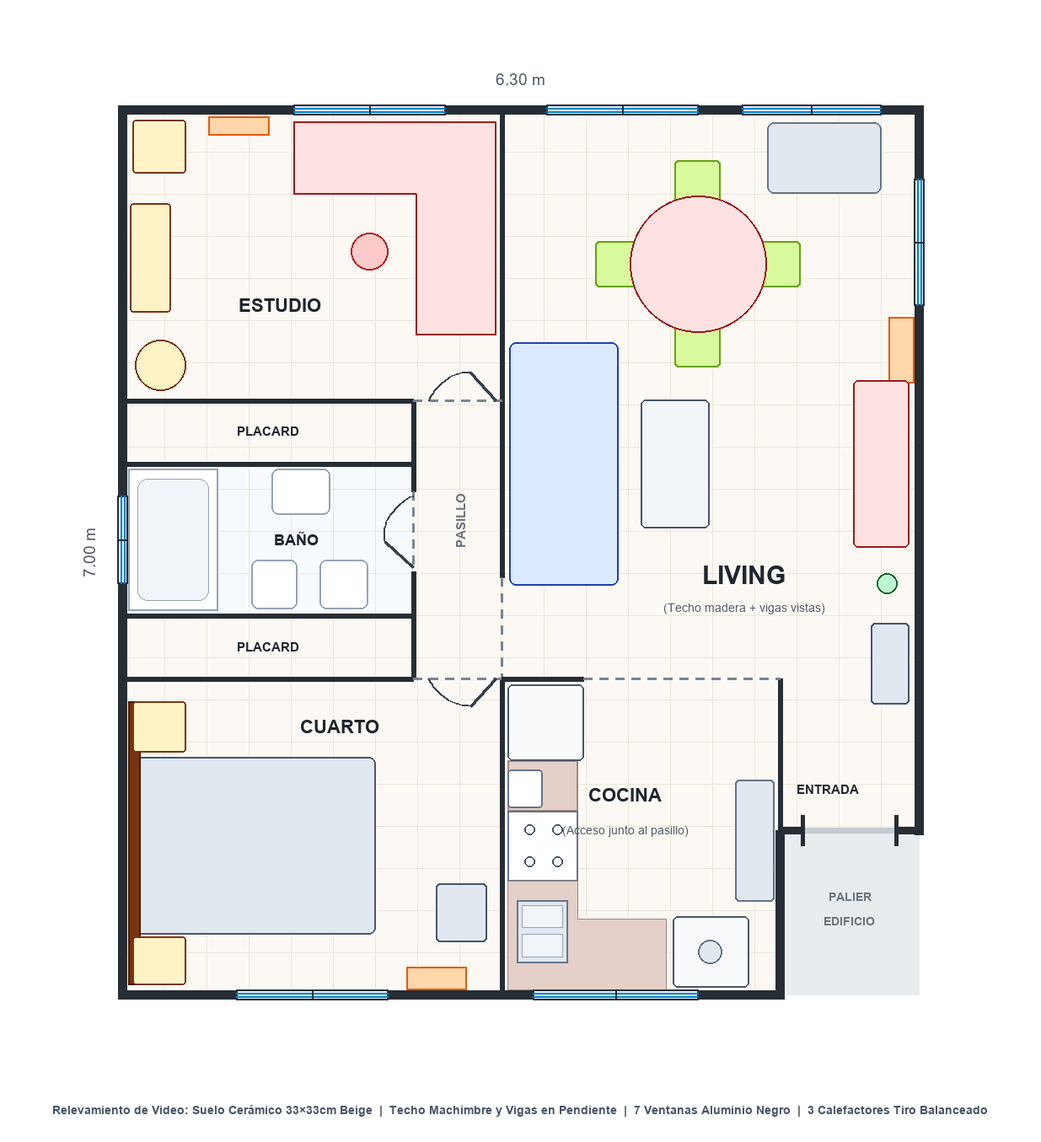
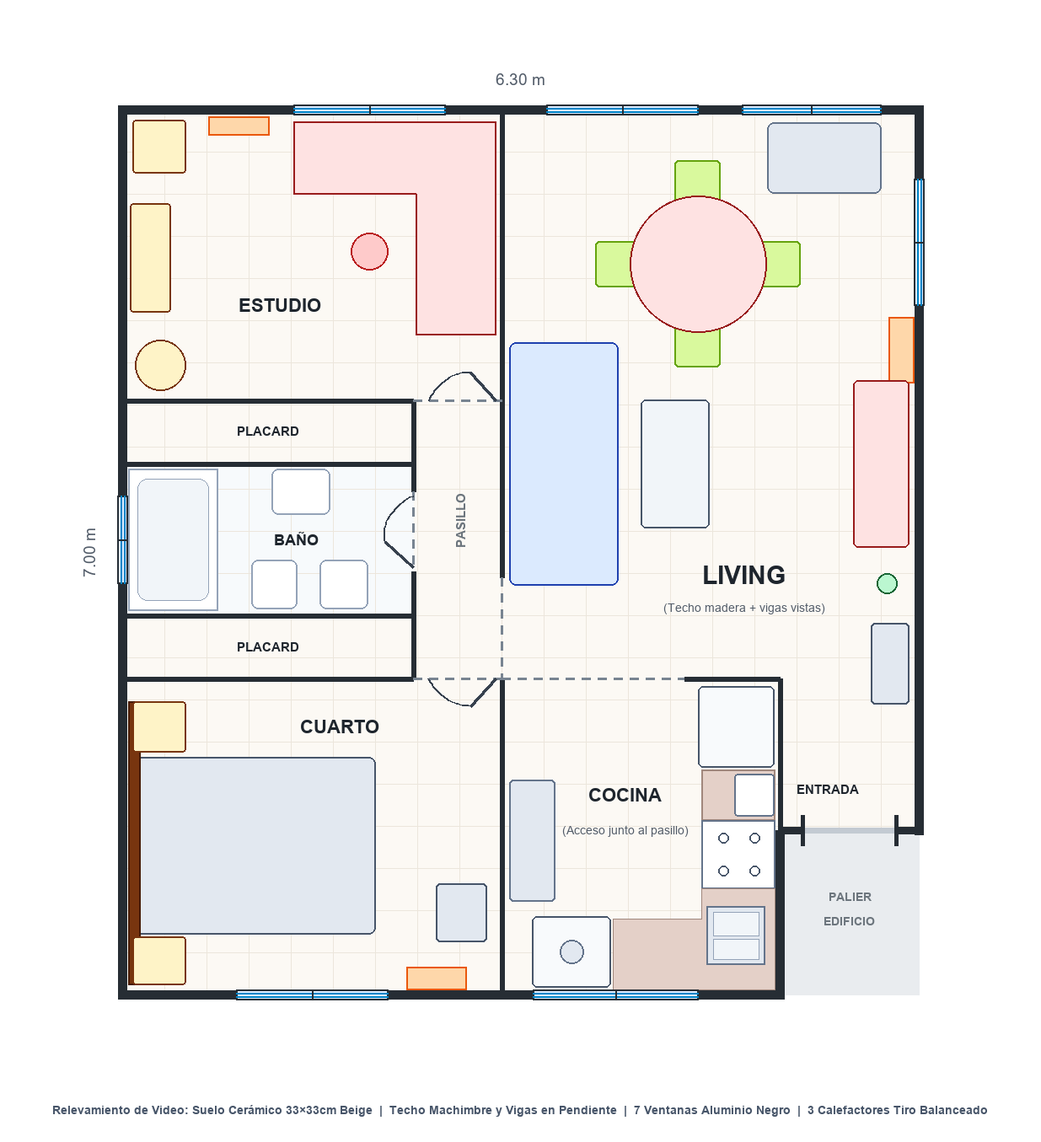
Corregir orientacion de muebles de cocina: heladera, cocina y mesada sobre muro Este; lavarropas al Oeste bajo ventana y portero en muro divisorio Oeste

Changed region(s): [[0.4615, 0.6509, 0.7692, 0.8679], [0.6462, 0.5889, 0.7385, 0.6199], [0.4923, 0.5889, 0.5538, 0.6199]]

diff --git a/index.html b/index.html
@@ -1331,29 +1331,29 @@
         addBoxFixture(2.48, 0.34, 6.86, 0.46, 0.62, 0.14, 0x9ca3af);
         addBoxFixture(2.48, 0.66, 6.86, 0.48, 0.03, 0.16, 0xf97316);
 
-        // 2) COCINA (según fotos reales): Sobre muro Oeste (X=3.00) van Heladera -> 1° tramo mesada + Calefón mural Orbis/Bosch -> Cocina 4H -> 2° tramo mesada con Bacha + esquina en "L" bajo ventana Sur (Y=7.00). Muro Este (X=5.20) queda libre con portero y cestos.
-        // - 1° tramo de bajo mesada y mesada de granito entre Heladera y Cocina (Z=5.15..5.55, X=3.30)
-        addBoxFixture(3.30, 0.42, 5.35, 0.56, 0.84, 0.40, 0xb48a64);
-        addBoxFixture(3.30, 0.86, 5.35, 0.60, 0.04, 0.40, 0xc8b2a6);
-        // - Calefón a gas mural blanco (Orbis/Bosch) colgado en pared Oeste sobre el 1° tramo de mesada (X=3.16, Y=1.44, Z=5.35) + caño amarillo
-        setMountWall(3.00, 5.35, false);
-        addBoxFixture(3.16, 1.44, 5.35, 0.22, 0.56, 0.36, 0xf8fafc, fixturesGroup, 0.25);
-        addBoxFixture(3.28, 1.28, 5.35, 0.02, 0.08, 0.12, 0x334155); // Visor/botonera calefón
-        addBoxFixture(3.12, 1.08, 5.22, 0.03, 0.22, 0.03, 0xeab308); // Caño de gas amarillo
+        // 2) COCINA (según fotos reales): Sobre muro Este (X=5.20) van Heladera -> 1° tramo mesada + Calefón mural Orbis/Bosch -> Cocina 4H -> 2° tramo mesada con Bacha + esquina en "L" bajo ventana Sur (Y=7.00). Muro Oeste (X=3.00) queda libre con portero y cestos.
+        // - 1° tramo de bajo mesada y mesada de granito entre Heladera y Cocina (Z=5.22..5.62, X=4.87)
+        addBoxFixture(4.87, 0.42, 5.42, 0.56, 0.84, 0.40, 0xb48a64);
+        addBoxFixture(4.86, 0.86, 5.42, 0.60, 0.04, 0.40, 0xc8b2a6);
+        // - Calefón a gas mural blanco (Orbis/Bosch) colgado en pared Este sobre el 1° tramo de mesada (X=5.04, Y=1.44, Z=5.42) + caño amarillo
+        setMountWall(5.20, 5.42, false);
+        addBoxFixture(5.04, 1.44, 5.42, 0.22, 0.56, 0.36, 0xf8fafc, fixturesGroup, 0.25);
+        addBoxFixture(4.92, 1.28, 5.42, 0.02, 0.08, 0.12, 0x334155); // Visor/botonera calefón
+        addBoxFixture(5.08, 1.08, 5.28, 0.03, 0.22, 0.03, 0xeab308); // Caño de gas amarillo
         setMountWall(null);
-        // - Cocina a gas blanca de 4 hornallas con horno visor negro sobre muro Oeste (X=3.30, Z=5.85, entre los dos tramos de mesada)
-        addBoxFixture(3.30, 0.43, 5.85, 0.58, 0.86, 0.54, 0xffffff, fixturesGroup, 0.25);
-        addBoxFixture(3.30, 0.87, 5.85, 0.52, 0.02, 0.48, 0x1e293b); // Rejilla 4 hornallas negra
-        addBoxFixture(3.60, 0.38, 5.85, 0.02, 0.44, 0.42, 0x0f172a); // Visor negro puerta del horno
-        // - 2° tramo de bajo mesada y mesada en "L" de granito gris/rosado (Muro Oeste Z=6.12..6.96 + retorno Sur X=3.60..4.30)
-        addBoxFixture(3.30, 0.42, 6.54, 0.56, 0.84, 0.84, 0xb48a64);
-        addBoxFixture(3.95, 0.42, 6.68, 0.70, 0.84, 0.56, 0xb48a64);
-        addBoxFixture(3.30, 0.86, 6.54, 0.60, 0.04, 0.84, 0xc8b2a6);
-        addBoxFixture(3.95, 0.86, 6.68, 0.68, 0.04, 0.58, 0xc8b2a6);
-        // - Bacha doble esquinera de acero inoxidable + grifería monocomando + filtro purificador negro PSA (X=3.35, Z=6.50)
-        addBoxFixture(3.35, 0.875, 6.46, 0.40, 0.02, 0.44, 0x94a3b8, fixturesGroup, 0.25);
-        addBoxFixture(3.70, 0.875, 6.66, 0.40, 0.02, 0.38, 0x94a3b8, fixturesGroup, 0.25);
-        addBoxFixture(3.30, 1.00, 6.66, 0.09, 0.24, 0.09, 0x0f172a, fixturesGroup, 0.2); // Filtro purificador de agua negro PSA
+        // - Cocina a gas blanca de 4 hornallas con horno visor negro sobre muro Este (X=4.86, Z=5.89, entre los dos tramos de mesada)
+        addBoxFixture(4.86, 0.43, 5.89, 0.58, 0.86, 0.54, 0xffffff, fixturesGroup, 0.25);
+        addBoxFixture(4.86, 0.87, 5.89, 0.52, 0.02, 0.48, 0x1e293b); // Rejilla 4 hornallas negra
+        addBoxFixture(4.56, 0.38, 5.89, 0.02, 0.44, 0.42, 0x0f172a); // Visor negro puerta del horno
+        // - 2° tramo de bajo mesada y mesada en "L" de granito gris/rosado (Muro Este Z=6.16..6.96 + retorno Sur X=3.88..4.58)
+        addBoxFixture(4.87, 0.42, 6.56, 0.56, 0.84, 0.80, 0xb48a64);
+        addBoxFixture(4.23, 0.42, 6.68, 0.70, 0.84, 0.56, 0xb48a64);
+        addBoxFixture(4.86, 0.86, 6.56, 0.60, 0.04, 0.80, 0xc8b2a6);
+        addBoxFixture(4.23, 0.86, 6.68, 0.68, 0.04, 0.58, 0xc8b2a6);
+        // - Bacha doble esquinera de acero inoxidable + grifería monocomando + filtro purificador negro PSA (X=4.68, Z=6.55)
+        addBoxFixture(4.82, 0.875, 6.46, 0.40, 0.02, 0.44, 0x94a3b8, fixturesGroup, 0.25);
+        addBoxFixture(4.48, 0.875, 6.66, 0.40, 0.02, 0.38, 0x94a3b8, fixturesGroup, 0.25);
+        addBoxFixture(4.88, 1.00, 6.66, 0.09, 0.24, 0.09, 0x0f172a, fixturesGroup, 0.2); // Filtro purificador de agua negro PSA
 
         // 3) BAÑO AMPLIO (según fotos #23 a #29): Bañera con mampara/cortina floral al Oeste + Lavatorio con botiquín espejo al Norte + Inodoro, Bidet y Alacena al Sur
         // Bañera blanca (X=0.05..0.75, Z=2.84..3.96) + esquinero ducha + cortina de baño blanca
@@ -1473,9 +1473,9 @@
         // - PUERTA CUARTO: De X = 2.30 a X = 3.00 (bisagra al Este en X=3.00, abre HACIA ADENTRO del Cuarto sobre muro Este, fotos #17 y #22)
         addDashedLine(2.30, 4.50, 3.00, 4.50);
         addDoorSymbol2D(2.95, 4.50, 2.75, 4.72, 2.55, 4.72, 2.42, 4.50);
-        // - VANO ABIERTO COCINA (SIN PUERTA): Mocheta frontal de Cocina de X = 3.00 a X = 3.65 (cubre el lateral de la heladera); paso libre hacia la cocina de X = 3.65 a X = 5.20
-        addWallSegment(3.00, 4.50, 3.65, 4.50, INT_T, interiorWallsGroup, false);
-        addDashedLine(3.65, 4.50, 5.20, 4.50);
+        // - VANO ABIERTO COCINA (SIN PUERTA): Paso libre de X = 3.00 a X = 4.45 alineado con el pasillo de la cocina; mocheta de X = 4.45 a X = 5.20 delante del lateral de la heladera
+        addDashedLine(3.00, 4.50, 4.45, 4.50);
+        addWallSegment(4.45, 4.50, 5.20, 4.50, INT_T, interiorWallsGroup, false);
 
         // ============================================================================
         // 4B. PUERTAS 3D REALES EXTRAÍDAS DEL VIDEO (MARCOS DE CHAPA, HOJAS MADERA,
@@ -1716,14 +1716,14 @@
             if (extras3DBuilt) return;
             extras3DBuilt = true;
             buildWoodenRoof();
-            // Dintel sobre el Vano Abierto de Cocina (X = 3.65 a 5.20)
-            const wCocinaVano = 1.55;
+            // Dintel sobre el Vano Abierto de Cocina (X = 3.00 a 4.45)
+            const wCocinaVano = 1.45;
             const lintelH = WALL_H - DOOR_H;
             const cocinaLintel = new THREE.Mesh(UNIT_BOX_GEO, intWallMat);
             cocinaLintel.scale.set(wCocinaVano, lintelH, INT_T);
-            cocinaLintel.position.set(4.425, DOOR_H + lintelH / 2, 4.50);
+            cocinaLintel.position.set(3.725, DOOR_H + lintelH / 2, 4.50);
             doors3DGroup.add(cocinaLintel);
-            attachWallMount(cocinaLintel, 4.425, 4.50, true);
+            attachWallMount(cocinaLintel, 4.60, 4.50, true);
             // Instanciar puertas 3D relevadas de las fotos (#17, #23, #39, #40):
             // - Puerta Estudio: bisagra en X=3.00 (hingeAtStart=false), abre hacia adentro sobre muro Este (swingSign=-1)
             // - Puerta Baño: bisagra en Z=3.65 (hingeAtStart=false), abre hacia adentro al Sur (swingSign=1)
@@ -1925,61 +1925,61 @@
             addCurtainAssembly(6.30, 0.55, 6.30, 1.55, -0.12, 0, 0xd6ccc2);
 
             // ------------------------------------------------------------------------
-            // B) COCINA ([3.00, 4.50] a [5.20, 7.00]) - Relevamiento exacto de las fotos
+            // B) COCINA ([3.00, 4.50] a [5.20, 7.00]) - Relevamiento exacto de las fotos reales
             // ------------------------------------------------------------------------
-            // 1. Mueble envolvente de heladera en esquina Noroeste (X=3.35, Z=4.88, detrás de la mocheta de acceso):
-            // - Heladera blanca con freezer superior mirando al Este + imanes en la puerta
-            addDecorBox(3.35, 0.84, 4.88, 0.60, 1.68, 0.62, 0xf8fafc, 0.25, 0, 'Heladera con Freezer');
+            // 1. Mueble envolvente de heladera en esquina Noreste (X=4.85, Z=4.88, detrás de la mocheta de acceso):
+            // - Heladera blanca con freezer superior mirando al Oeste + imanes en la puerta
+            addDecorBox(4.85, 0.84, 4.88, 0.60, 1.68, 0.62, 0xf8fafc, 0.25, 0, 'Heladera con Freezer');
             // - Bodega portabotellas de 8 nichos (4x2) + Alacena superior de 2 puertas en melamina roble claro hasta arriba
-            setMountWall(3.00, 4.88, false);
-            addDecorBox(3.35, 1.78, 4.88, 0.60, 0.16, 0.62, 0xd6ccc2, 0.5, 0, 'Bodega Portabotellas');  // Bodega portabotellas
-            addDecorBox(3.35, 2.12, 4.88, 0.60, 0.52, 0.62, 0xd6ccc2, 0.45, 0, 'Alacena sobre Heladera'); // Alacena alta sobre heladera
-            // 2. Alacenas superiores sobre Muro Oeste (X=3.00):
-            // - Alacena sobre el calefón Orbis/Bosch (Z=5.35) + caño corrugado de aluminio arriba + plumero extensible violeta en el hueco
-            addDecorBox(3.24, 1.98, 5.35, 0.34, 0.48, 0.40, 0xd6ccc2, 0.45, 0, 'Alacena sobre Calefón');
-            addDecorCyl(3.18, 2.30, 5.40, 0.05, 0.05, 0.22, 0x94a3b8, 0.3, 'Conducto Ventilación Calefón');    // Conducto aluminio calefón
-            addDecorCyl(3.58, 1.65, 5.15, 0.012, 0.012, 1.45, 0xf8fafc, 0.4, 'Cabo Plumero Extensible');  // Cabo extensible blanco del plumero
-            addDecorCyl(3.58, 2.40, 5.15, 0.09, 0.05, 0.18, 0x7e22ce, 0.7, 'Plumero Violeta');    // Plumero violeta arriba de la heladera
-            // - Alacena larga de 3 puertas sobre cocina y bacha (Z=5.60..6.65) + estante especiero inferior abierto + 2 latas negras Bagley arriba + imán portacuchillos
-            setMountWall(3.00, 6.15, false);
-            addDecorBox(3.24, 1.84, 6.12, 0.34, 0.64, 1.04, 0xd6ccc2, 0.45, 0, 'Alacena Cocina 3 Puertas');
-            addDecorBox(3.24, 1.44, 6.12, 0.26, 0.14, 1.04, 0xb48a64, 0.5, 0, 'Estante Especiero Cocina');    // Estante especiero inferior con tazas y Moka roja
-            addDecorCyl(3.24, 2.24, 5.80, 0.09, 0.09, 0.16, 0x1e1b4b, 0.4, 'Lata Redonda Alacena 1');    // Lata redonda negra 1 sobre alacena
-            addDecorCyl(3.24, 2.24, 6.24, 0.09, 0.09, 0.16, 0x1e1b4b, 0.4, 'Lata Redonda Alacena 2');    // Lata redonda negra 2 sobre alacena
-            addDecorBox(3.09, 1.24, 6.18, 0.02, 0.16, 0.28, 0x334155, 0.3, 0, 'Imán Portacuchillos');    // Imán portacuchillos en pared azulejada
-            // - Estante esquinero abierto de madera de 3 niveles en esquina Suroeste (Z=6.82) con planta y cafetera Moka
-            addDecorBox(3.24, 1.74, 6.82, 0.30, 0.62, 0.26, 0x9a5b32, 0.5, 0, 'Estante Esquinero Madera');
-            addDecorCyl(3.24, 2.12, 6.82, 0.06, 0.05, 0.16, 0x15803d, 0.6, 'Planta Estante Esquina');    // Plantita en estante superior
+            setMountWall(5.20, 4.88, false);
+            addDecorBox(4.85, 1.78, 4.88, 0.60, 0.16, 0.62, 0xd6ccc2, 0.5, 0, 'Bodega Portabotellas');  // Bodega portabotellas
+            addDecorBox(4.85, 2.12, 4.88, 0.60, 0.52, 0.62, 0xd6ccc2, 0.45, 0, 'Alacena sobre Heladera'); // Alacena alta sobre heladera
+            // 2. Alacenas superiores sobre Muro Este (X=5.20):
+            // - Alacena sobre el calefón Orbis/Bosch (Z=5.42) + caño corrugado de aluminio arriba + plumero extensible violeta en el hueco
+            addDecorBox(4.96, 1.98, 5.42, 0.34, 0.48, 0.40, 0xd6ccc2, 0.45, 0, 'Alacena sobre Calefón');
+            addDecorCyl(5.02, 2.30, 5.48, 0.05, 0.05, 0.22, 0x94a3b8, 0.3, 'Conducto Ventilación Calefón');    // Conducto aluminio calefón
+            addDecorCyl(4.62, 1.65, 5.20, 0.012, 0.012, 1.45, 0xf8fafc, 0.4, 'Cabo Plumero Extensible');  // Cabo extensible blanco del plumero
+            addDecorCyl(4.62, 2.40, 5.20, 0.09, 0.05, 0.18, 0x7e22ce, 0.7, 'Plumero Violeta');    // Plumero violeta arriba de la heladera
+            // - Alacena larga de 3 puertas sobre cocina y bacha (Z=5.64..6.68) + estante especiero inferior abierto + 2 latas negras Bagley arriba + imán portacuchillos
+            setMountWall(5.20, 6.20, false);
+            addDecorBox(4.96, 1.84, 6.16, 0.34, 0.64, 1.04, 0xd6ccc2, 0.45, 0, 'Alacena Cocina 3 Puertas');
+            addDecorBox(4.96, 1.44, 6.16, 0.26, 0.14, 1.04, 0xb48a64, 0.5, 0, 'Estante Especiero Cocina');    // Estante especiero inferior con tazas y Moka roja
+            addDecorCyl(4.96, 2.24, 5.82, 0.09, 0.09, 0.16, 0x1e1b4b, 0.4, 'Lata Redonda Alacena 1');    // Lata redonda negra 1 sobre alacena
+            addDecorCyl(4.96, 2.24, 6.26, 0.09, 0.09, 0.16, 0x1e1b4b, 0.4, 'Lata Redonda Alacena 2');    // Lata redonda negra 2 sobre alacena
+            addDecorBox(5.11, 1.24, 6.22, 0.02, 0.16, 0.28, 0x334155, 0.3, 0, 'Imán Portacuchillos');    // Imán portacuchillos en pared azulejada
+            // - Estante esquinero abierto de madera de 3 niveles en esquina Sureste (Z=6.82) con planta y cafetera Moka
+            addDecorBox(4.96, 1.74, 6.82, 0.30, 0.62, 0.26, 0x9a5b32, 0.5, 0, 'Estante Esquinero Madera');
+            addDecorCyl(4.96, 2.12, 6.82, 0.06, 0.05, 0.16, 0x15803d, 0.6, 'Planta Estante Esquina');    // Plantita en estante superior
             setMountWall(null);
-            // - Rollo de cocina y termo sobre el 1° tramo de mesada (Z=5.25..5.45) + contenedor celeste sobre mesada
-            addDecorCyl(3.48, 0.98, 5.25, 0.06, 0.06, 0.22, 0xffffff, 0.4, 'Rollo de Cocina');    // Rollo de papel de cocina
-            addDecorCyl(3.46, 0.98, 5.45, 0.045, 0.045, 0.24, 0x475569, 0.3, 'Termo Acero Inox');  // Termo acero
-            addDecorBox(3.46, 0.92, 6.20, 0.18, 0.09, 0.22, 0x0284c7, 0.3, 0, 'Tupper Celeste Mesada');    // Recipiente celeste sobre mesada
+            // - Rollo de cocina y termo sobre el 1° tramo de mesada (Z=5.32..5.52) + contenedor celeste sobre mesada
+            addDecorCyl(4.68, 0.98, 5.30, 0.06, 0.06, 0.22, 0xffffff, 0.4, 'Rollo de Cocina');    // Rollo de papel de cocina
+            addDecorCyl(4.72, 0.98, 5.52, 0.045, 0.045, 0.24, 0x475569, 0.3, 'Termo Acero Inox');  // Termo acero
+            addDecorBox(4.74, 0.92, 6.24, 0.18, 0.09, 0.22, 0x0284c7, 0.3, 0, 'Tupper Celeste Mesada');    // Recipiente celeste sobre mesada
             // 3. Sector bajo Ventana Sur (Y=7.00):
             // - Cortina roller blanca en ventana Sur (X=3.25..4.55, Z=6.94)
             setMountWall(3.90, 7.00, true);
             addDecorBox(3.90, 1.82, 6.94, 1.28, 0.36, 0.03, 0xf8fafc, 0.3, 0, 'Cortina Roller Ventana');
             setMountWall(null);
-            // - Escurridor de platos negro sobre el retorno Sur de la mesada (mitad izquierda bajo la ventana: X=3.95, Z=6.68)
-            addDecorBox(3.95, 0.93, 6.68, 0.38, 0.10, 0.36, 0x1e293b, 0.4, 0, 'Escurridor de Platos Negro');
-            // - Lavarropas automático blanco de carga frontal bajo la mitad derecha de la ventana Sur (X=4.65, Z=6.67, mirando al Norte) + tapa de madera
-            addDecorBox(4.65, 0.42, 6.67, 0.60, 0.84, 0.58, 0xf8fafc, 0.3, 0, 'Lavarropas Automático');  // Cuerpo lavarropas
-            const drum = addDecorCyl(4.65, 0.44, 6.37, 0.18, 0.18, 0.04, 0x334155, 0.2, 'Puerta Lavarropas'); // Ojo de buey mirando al Norte
+            // - Escurridor de platos negro sobre el retorno Sur de la mesada (mitad izquierda bajo la ventana: X=4.22, Z=6.68)
+            addDecorBox(4.22, 0.93, 6.68, 0.38, 0.10, 0.36, 0x1e293b, 0.4, 0, 'Escurridor de Platos Negro');
+            // - Lavarropas automático blanco de carga frontal bajo la mitad derecha de la ventana Sur (lado Oeste: X=3.54, Z=6.67, mirando al Norte) + tapa de madera
+            addDecorBox(3.54, 0.42, 6.67, 0.60, 0.84, 0.58, 0xf8fafc, 0.3, 0, 'Lavarropas Automático');  // Cuerpo lavarropas
+            const drum = addDecorCyl(3.54, 0.44, 6.37, 0.18, 0.18, 0.04, 0x334155, 0.2, 'Puerta Lavarropas'); // Ojo de buey mirando al Norte
             drum.rotation.x = Math.PI / 2;
-            addDecorBox(4.65, 0.86, 6.67, 0.64, 0.04, 0.60, 0xb47b48, 0.45, 0, 'Tapa Madera Lavarropas'); // Tapa de madera sobre lavarropas
+            addDecorBox(3.54, 0.86, 6.67, 0.64, 0.04, 0.60, 0xb47b48, 0.45, 0, 'Tapa Madera Lavarropas'); // Tapa de madera sobre lavarropas
             // - Estación de café sobre la tapa de madera del lavarropas (frente a la ventana): Cafetera expreso + Pava eléctrica negra
-            addDecorBox(4.58, 1.04, 6.68, 0.28, 0.32, 0.28, 0x334155, 0.3, 0, 'Cafetera Espresso');  // Cafetera expreso plateada/negra
-            addDecorCyl(4.88, 0.98, 6.68, 0.08, 0.09, 0.20, 0x0f172a, 0.3, 'Pava Eléctrica Negra');  // Pava eléctrica negra
-            // 4. Pared Este de la Cocina (X=5.20): 2 Cestos de basura en fila + bolso térmico + escoba azul con pala + portero eléctrico + aplique luz
-            addDecorBox(4.96, 0.26, 6.08, 0.34, 0.52, 0.34, 0xf8fafc, 0.4, 0, 'Cesto Basura Blanco');  // Cesto blanco (más cercano al lavarropas)
-            addDecorBox(4.96, 0.53, 6.08, 0.30, 0.03, 0.30, 0x1e293b, 0.4, 0, 'Tapa Cesto Blanco');  // Tapa vaivén negra del cesto blanco
-            addDecorBox(4.96, 0.28, 5.68, 0.34, 0.56, 0.36, 0x64748b, 0.5, 0, 'Cesto Basura Gris');  // Cesto gris con tapa
-            addDecorBox(4.96, 0.14, 5.32, 0.28, 0.26, 0.26, 0x1e1b4b, 0.7, 0, 'Bolso Térmico');  // Bolso térmico negro/rosa delante del cesto gris
-            addDecorCyl(5.13, 0.65, 5.68, 0.015, 0.015, 1.25, 0x1d4ed8, 0.4, 'Escoba Azul'); // Escoba cabo azul apoyada en pared Este
-            addDecorBox(5.12, 0.36, 5.68, 0.08, 0.22, 0.20, 0xf8fafc, 0.4, 0, 'Pala de Basura');  // Pala blanca colgada en la escoba
-            setMountWall(5.20, 5.50, false);
-            addDecorBox(5.14, 1.42, 5.15, 0.05, 0.22, 0.10, 0xfef3c7, 0.4, 0, 'Portero Eléctrico Intercom');  // Teléfono portero eléctrico beige
-            addDecorBox(5.14, 2.15, 5.35, 0.06, 0.16, 0.24, 0xffffff, 0.3, 0, 'Aplique de Pared Cocina');  // Aplique de pared medialuna blanco
+            addDecorBox(3.62, 1.04, 6.68, 0.28, 0.32, 0.28, 0x334155, 0.3, 0, 'Cafetera Espresso');  // Cafetera expreso plateada/negra
+            addDecorCyl(3.32, 0.98, 6.68, 0.08, 0.09, 0.20, 0x0f172a, 0.3, 'Pava Eléctrica Negra');  // Pava eléctrica negra
+            // 4. Pared Oeste de la Cocina (X=3.00): 2 Cestos de basura en fila + bolso térmico + escoba azul con pala + portero eléctrico + aplique luz
+            addDecorBox(3.24, 0.26, 6.08, 0.34, 0.52, 0.34, 0xf8fafc, 0.4, 0, 'Cesto Basura Blanco');  // Cesto blanco (más cercano al lavarropas)
+            addDecorBox(3.24, 0.53, 6.08, 0.30, 0.03, 0.30, 0x1e293b, 0.4, 0, 'Tapa Cesto Blanco');  // Tapa vaivén negra del cesto blanco
+            addDecorBox(3.24, 0.28, 5.68, 0.34, 0.56, 0.36, 0x64748b, 0.5, 0, 'Cesto Basura Gris');  // Cesto gris con tapa
+            addDecorBox(3.24, 0.14, 5.32, 0.28, 0.26, 0.26, 0x1e1b4b, 0.7, 0, 'Bolso Térmico');  // Bolso térmico negro/rosa delante del cesto gris
+            addDecorCyl(3.07, 0.65, 5.68, 0.015, 0.015, 1.25, 0x1d4ed8, 0.4, 'Escoba Azul'); // Escoba cabo azul apoyada en pared Oeste
+            addDecorBox(3.08, 0.36, 5.68, 0.08, 0.22, 0.20, 0xf8fafc, 0.4, 0, 'Pala de Basura');  // Pala blanca colgada en la escoba
+            setMountWall(3.00, 5.50, false);
+            addDecorBox(3.06, 1.42, 5.15, 0.05, 0.22, 0.10, 0xfef3c7, 0.4, 0, 'Portero Eléctrico Intercom');  // Teléfono portero eléctrico beige
+            addDecorBox(3.06, 2.15, 5.35, 0.06, 0.16, 0.24, 0xffffff, 0.3, 0, 'Aplique de Pared Cocina');  // Aplique de pared medialuna blanco
             setMountWall(null);
 
             // ------------------------------------------------------------------------
@@ -2457,7 +2457,7 @@
             mesa: { name: "Mesa Comedor", room: "Living", x: 5.00, z: 2.80, w: 1.40, d: 0.80, h: 0.76, color: 0xb46b38 },
             escritorio: { name: "Escritorio", room: "Estudio", x: 1.50, z: 0.60, w: 1.40, d: 0.65, h: 0.75, color: 0x1e293b },
             placard: { name: "Placard", room: "Placard", x: 0.85, z: 2.55, w: 1.60, d: 0.45, h: 2.30, color: 0xb46b38 },
-            heladera: { name: "Heladera", room: "Cocina", x: 3.35, z: 4.88, w: 0.60, d: 0.60, h: 1.70, color: 0x94a3b8 },
+            heladera: { name: "Heladera", room: "Cocina", x: 4.85, z: 4.95, w: 0.60, d: 0.60, h: 1.70, color: 0x94a3b8 },
             cubo: { name: "Mueble a Medida", room: "General", x: 5.00, z: 3.00, w: 1.00, d: 1.00, h: 0.80, color: 0x0284c7 }
         };
 
@@ -2487,8 +2487,8 @@
             { id: 'vid_perchero', name: 'Perchero + Zapatero Entrada', room: 'Entrada', x: 6.08, z: 4.38, y: 0.93, w: 0.30, d: 0.64, h: 1.86, rot: 0, color: 0x1e293b },
             { id: 'vid_mesa_red', name: 'Mesa Comedor Redonda + 4 Sillas', room: 'Living', x: 4.55, z: 1.22, y: 0.38, w: 1.10, d: 1.10, h: 0.76, rot: 0, color: 0x882915 },
             { id: 'vid_cucha_ne', name: 'Cucha Perro Esquina NE', room: 'Living', x: 5.55, z: 0.38, y: 0.05, w: 0.92, d: 0.62, h: 0.10, rot: 0, color: 0x94a3b8 },
-            { id: 'vid_heladera', name: 'Heladera c/ Freezer + Bodega', room: 'Cocina', x: 3.35, z: 4.88, y: 0.84, w: 0.60, d: 0.62, h: 1.68, rot: 0, color: 0xe2e8f0 },
-            { id: 'vid_lavarropas', name: 'Lavarropas + Estación Café (Bajo Ventana)', room: 'Cocina', x: 4.65, z: 6.67, y: 0.43, w: 0.60, d: 0.58, h: 0.86, rot: 0, color: 0xcbd5e1 },
+            { id: 'vid_heladera', name: 'Heladera c/ Freezer + Bodega', room: 'Cocina', x: 4.85, z: 4.88, y: 0.84, w: 0.60, d: 0.62, h: 1.68, rot: 0, color: 0xe2e8f0 },
+            { id: 'vid_lavarropas', name: 'Lavarropas + Estación Café (Bajo Ventana)', room: 'Cocina', x: 3.54, z: 6.67, y: 0.43, w: 0.60, d: 0.58, h: 0.86, rot: 0, color: 0xcbd5e1 },
             { id: 'vid_cama_2p', name: 'Cama 2 Plazas + Respaldo Nogal', room: 'Cuarto', x: 1.05, z: 5.80, y: 0.24, w: 1.90, d: 1.45, h: 0.48, rot: 0, color: 0x475569 },
             { id: 'vid_luz_n', name: 'Mesa de Luz Norte', room: 'Cuarto', x: 0.28, z: 4.84, y: 0.31, w: 0.42, d: 0.44, h: 0.62, rot: 0, color: 0x4a3222 },
             { id: 'vid_luz_s', name: 'Mesa de Luz Sur', room: 'Cuarto', x: 0.28, z: 6.72, y: 0.31, w: 0.42, d: 0.42, h: 0.62, rot: 0, color: 0x4a3222 },

diff --git a/generate_2d_plan.py b/generate_2d_plan.py
@@ -156,37 +156,37 @@ def main():
     # -------------------------------------------------------------------------
     f_tiny = load_font(12, bold=True)
 
-    # --- COCINA (según las fotos reales): Heladera -> 1° tramo mesada + Calefón mural -> Cocina 4H -> 2° tramo mesada en "L" con Bacha al Oeste (X=3.00); Lavarropas + Estación Café bajo ventana Sur al Este; Muro Este despejado ---
+    # --- COCINA (según las fotos reales): Heladera -> 1° tramo mesada + Calefón mural -> Cocina 4H -> 2° tramo mesada en "L" con Bacha sobre Muro Este (X=5.20); Lavarropas + Estación Café bajo ventana Sur (lado Oeste); Muro Oeste libre con portero y cestos ---
     granite_fill = (228, 208, 200)
     granite_border = (160, 135, 125)
-    # 1° tramo de mesada entre Heladera y Cocina 4H (X=3.05 a 3.60, Y=5.15 a 5.55)
-    draw.rectangle([*px(3.05, 5.15), *px(3.60, 5.55)], fill=granite_fill, outline=granite_border, width=2)
-    # Calefón mural a gas blanco (Orbis/Bosch) colgado sobre el 1° tramo de mesada (muro Oeste X=3.00)
-    draw.rounded_rectangle([*px(3.05, 5.22), *px(3.32, 5.52)], radius=4, fill=(255, 255, 255), outline=(100, 116, 139), width=2)
+    # 1° tramo de mesada entre Heladera y Cocina 4H (X=4.58 a 5.16, Y=5.22 a 5.62)
+    draw.rectangle([*px(4.58, 5.22), *px(5.16, 5.62)], fill=granite_fill, outline=granite_border, width=2)
+    # Calefón mural a gas blanco (Orbis/Bosch) colgado sobre el 1° tramo de mesada (muro Este X=5.20)
+    draw.rounded_rectangle([*px(4.84, 5.25), *px(5.15, 5.59)], radius=4, fill=(255, 255, 255), outline=(100, 116, 139), width=2)
 
-    # Cocina a gas blanca de 4 hornallas sobre muro Oeste (X=3.05 a 3.60, Y=5.55 a 6.10)
-    draw.rectangle([*px(3.05, 5.55), *px(3.60, 6.10)], fill=(255, 255, 255), outline=(100, 116, 139), width=2)
-    for bx, by in [(3.22, 5.69), (3.44, 5.69), (3.22, 5.95), (3.44, 5.95)]:
+    # Cocina a gas blanca de 4 hornallas sobre muro Este (X=4.58 a 5.16, Y=5.62 a 6.16)
+    draw.rectangle([*px(4.58, 5.62), *px(5.16, 6.16)], fill=(255, 255, 255), outline=(100, 116, 139), width=2)
+    for bx, by in [(4.75, 5.76), (5.00, 5.76), (4.75, 6.02), (5.00, 6.02)]:
         cx_b, cy_b = px(bx, by)
         draw.ellipse([cx_b - 6, cy_b - 6, cx_b + 6, cy_b + 6], outline=(71, 85, 105), width=2)
 
-    # 2° tramo de mesada en "L" (X=3.05 a 3.60, Y=6.10 a 6.96 + retorno Sur X=3.05 a 4.30, Y=6.40 a 6.96)
+    # 2° tramo de mesada en "L" (X=4.58 a 5.16, Y=6.16 a 6.96 + retorno Sur X=3.88 a 5.16, Y=6.40 a 6.96)
     draw.polygon(
         [
-            px(3.05, 6.10),
-            px(3.60, 6.10),
-            px(3.60, 6.40),
-            px(4.30, 6.40),
-            px(4.30, 6.96),
-            px(3.05, 6.96),
+            px(4.58, 6.16),
+            px(5.16, 6.16),
+            px(5.16, 6.96),
+            px(3.88, 6.96),
+            px(3.88, 6.40),
+            px(4.58, 6.40),
         ],
         fill=granite_fill,
         outline=granite_border,
     )
-    # Bacha doble esquinera de acero inoxidable + grifería monocomando en sector Oeste (X=3.12 a 3.52, Y=6.25 a 6.75)
-    draw.rectangle([*px(3.12, 6.25), *px(3.52, 6.75)], fill=(226, 232, 240), outline=(100, 116, 139), width=2)
-    draw.rectangle([*px(3.16, 6.29), *px(3.48, 6.47)], fill=(241, 245, 249), outline=(148, 163, 184), width=1)
-    draw.rectangle([*px(3.16, 6.52), *px(3.48, 6.70)], fill=(241, 245, 249), outline=(148, 163, 184), width=1)
+    # Bacha doble esquinera de acero inoxidable + filtro PSA en esquina Sureste (X=4.44 a 5.08, Y=6.32 a 6.82)
+    draw.rectangle([*px(4.62, 6.30), *px(5.08, 6.76)], fill=(226, 232, 240), outline=(100, 116, 139), width=2)
+    draw.rectangle([*px(4.67, 6.35), *px(5.03, 6.53)], fill=(241, 245, 249), outline=(148, 163, 184), width=1)
+    draw.rectangle([*px(4.67, 6.56), *px(5.03, 6.72)], fill=(241, 245, 249), outline=(148, 163, 184), width=1)
 
     # --- BAÑO (según fotos #23 a #29): Bañera (X=0.05..0.75), Lavatorio + Botiquín (X=1.18..1.64, Y=2.84..3.20), Bidet (X=1.02..1.38, Y=3.56..3.95) e Inodoro (X=1.56..1.94, Y=3.56..3.95) ---
     draw.rectangle([*px(0.05, 2.84), *px(0.75, 3.96)], fill=(255, 255, 255), outline=(148, 163, 184), width=2)
@@ -232,12 +232,12 @@ def main():
     # - Cuchas grises de los perros bajo ventanas Norte (X=5.10..6.00, Y=0.10..0.66)
     draw.rounded_rectangle([*px(5.10, 0.10), *px(6.00, 0.66)], radius=8, fill=(226, 232, 240), outline=(100, 116, 139), width=2)
 
-    # B) COCINA: Heladera con Freezer + Bodega al Noroeste (X=3.05..3.65, Y=4.55..5.15), Lavarropas + Estación Café bajo ventana Sur al Este (X=4.35..4.95, Y=6.38..6.94) y Cestos + Portero sobre pared Este (X=4.85..5.15, Y=5.30..6.26)
-    draw.rounded_rectangle([*px(3.05, 4.55), *px(3.65, 5.15)], radius=6, fill=(248, 250, 252), outline=(71, 85, 105), width=2)
-    draw.rounded_rectangle([*px(4.35, 6.38), *px(4.95, 6.94)], radius=6, fill=(248, 250, 252), outline=(71, 85, 105), width=2)
-    cx_w, cy_w = px(4.65, 6.66)
+    # B) COCINA: Heladera con Freezer + Bodega al Noreste (X=4.55..5.15, Y=4.56..5.20), Lavarropas + Estación Café bajo ventana Sur (lado Oeste: X=3.24..3.86, Y=6.38..6.94) y Cestos + Portero sobre pared Oeste (X=3.06..3.42, Y=5.30..6.26)
+    draw.rounded_rectangle([*px(4.55, 4.56), *px(5.15, 5.20)], radius=6, fill=(248, 250, 252), outline=(71, 85, 105), width=2)
+    draw.rounded_rectangle([*px(3.24, 6.38), *px(3.86, 6.94)], radius=6, fill=(248, 250, 252), outline=(71, 85, 105), width=2)
+    cx_w, cy_w = px(3.55, 6.66)
     draw.ellipse([cx_w - 14, cy_w - 14, cx_w + 14, cy_w + 14], fill=(226, 232, 240), outline=(100, 116, 139), width=2)
-    draw.rounded_rectangle([*px(4.85, 5.30), *px(5.15, 6.26)], radius=5, fill=(226, 232, 240), outline=(100, 116, 139), width=2)
+    draw.rounded_rectangle([*px(3.06, 5.30), *px(3.42, 6.26)], radius=5, fill=(226, 232, 240), outline=(100, 116, 139), width=2)
 
     # C) CUARTO AMPLIADO: Cama 2 Plazas (X=0.10..2.00, Y=5.12..6.52) + Respaldo Ancho Nogal y 2 Mesas de Luz sobre pared Oeste (X=0.00) + Cesto Ropa al Este
     draw.rounded_rectangle([*px(0.10, 5.12), *px(2.00, 6.52)], radius=8, fill=(226, 232, 240), outline=(71, 85, 105), width=2)
@@ -333,9 +333,9 @@ def main():
     # - Puerta Cuarto (de X = 2.30 a X = 3.00): bisagra al Este (X=3.00), abre HACIA ADENTRO del Cuarto sobre muro Este (fotos #17 y #22)
     draw_dashed_line(draw, *px(2.30, 4.50), *px(3.00, 4.50), fill=DASH_COLOR, width=3)
     draw_door_symbol(draw, px, (2.95, 4.50), (2.75, 4.72), (2.55, 4.72), (2.42, 4.50), DOOR_COLOR, width=3)
-    # - Cocina SIN PUERTA (mocheta de X = 3.00 a X = 3.65 delante de la heladera; vano abierto libre de X = 3.65 a X = 5.20)
-    draw.line([px(3.00, 4.50), px(3.65, 4.50)], fill=WALL_COLOR, width=INT_W)
-    draw_dashed_line(draw, *px(3.65, 4.50), *px(5.20, 4.50), fill=DASH_COLOR, width=3)
+    # - Cocina SIN PUERTA (vano abierto libre de X = 3.00 a X = 4.45; mocheta de X = 4.45 a X = 5.20 delante de la heladera)
+    draw_dashed_line(draw, *px(3.00, 4.50), *px(4.45, 4.50), fill=DASH_COLOR, width=3)
+    draw.line([px(4.45, 4.50), px(5.20, 4.50)], fill=WALL_COLOR, width=INT_W)
 
     # -------------------------------------------------------------------------
     # 5. TIPOGRAFÍA Y ETIQUETAS DE AMBIENTES
